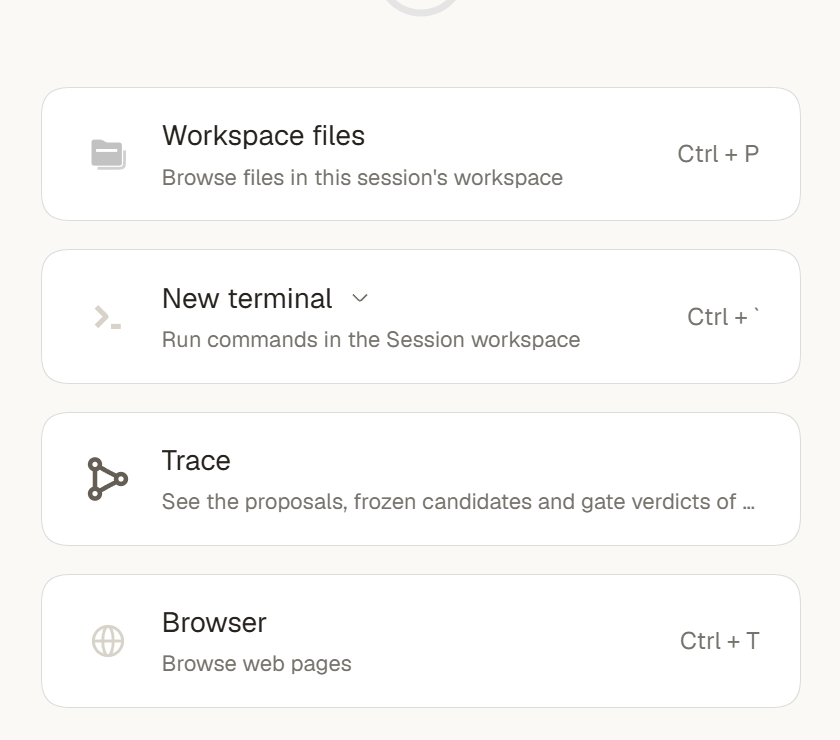
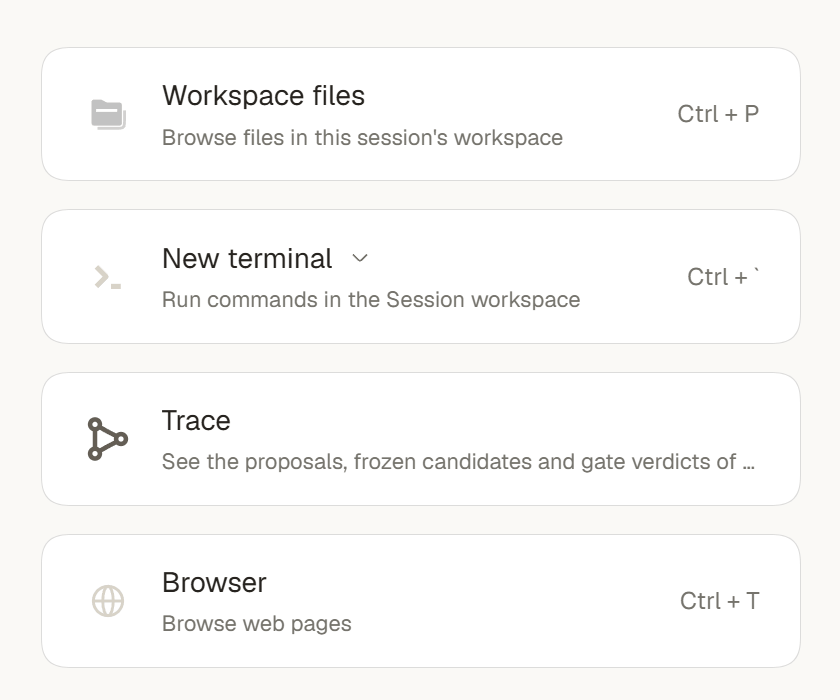
Tighten the header test and set version 0.1.0 in the changelog
An independent read found gaps in the test: outside links, event handlers,
foreignObject and SMIL animation passed, and a file name in plain text
counted as a picture. Each gap now fails, shown by planting the fault.

The README now states the gate refusals exactly: the first two tries left
off the sha256 prefix and the third sent a different hash.

diff --git a/README.md b/README.md
@@ -41,13 +41,13 @@ This repository holds the build kit and the two Arc plugins. It does not contain
 
 ## A real task
 
-We gave Arc Harness a real job on this repository: write the test that guards the header at the top of this page. It planned the work, built it, froze it and handed it to a fresh reviewer. The run took 5 minutes 31 seconds, with 7 subagents and 102 steps, on Clarke 1.0 through Radium. The file it wrote is [`test/header.test.mjs`](test/header.test.mjs), and `npm test` runs it now.
+We gave Arc Harness a real job on this repository: write the test that guards the header at the top of this page. It planned the work, built it, froze it and handed it to a fresh reviewer. The run took 5 minutes 31 seconds, with 7 subagents and 102 steps, on Clarke 1.0 through Radium. The file it wrote is [`test/header.test.mjs`](test/header.test.mjs), and `npm test` runs it now. An independent read then found gaps in it, and we added those checks by hand.
 
 ![The session of that run on the left, with its seven steps. The Trace tab on the right lists the ledger: a proposal, frozen candidates, three refusals and one acceptance.](docs/images/task-run.png)
 
-The Trace tab on the right is the ledger of that run, newest first. The gate refused first. The agent that froze the work asked for acceptance itself, and the gate answered that the reviewer must call it. Two more tries failed because the reviewers passed a wrong candidate value. The file never changed. The fourth try passed, and the chain holds all 11 entries.
+The Trace tab on the right is the ledger of that run, newest first. The gate refused first. The agent that froze the work asked for acceptance itself, and the gate answered that the reviewer must call it. That try and the next left off the `sha256:` prefix, and the third sent a different hash. The file never changed. The fourth try passed, and the chain holds all 11 entries.
 
-**Shared memory.** Each verdict went to Cammut by itself. In a new session, a question found those verdicts. The answer repeats the gate's stock wording about a later edit, and the ledger above shows what really happened.
+**Shared memory.** Each verdict went to Cammut by itself. In a new session, a question found those verdicts. The answer repeats the gate's stock wording about a later edit. That wording does not fit this run: every freeze in the ledger holds the same hash.
 
 ![A new session asks Cammut for the gate verdicts of that goal and gets back the refusals and the acceptance.](docs/images/task-memory.png)
 
@@ -59,7 +59,7 @@ The Trace tab on the right is the ledger of that run, newest first. The gate ref
 |---|---|
 | Harness of Harness gate | Runs. Everything above comes from it. |
 | Ledger and Trace tab | Runs. |
-| Cammut memory | Runs. Verdicts go in by themselves, the brief reaches each session and the agent can search notes. |
+| Cammut memory | Runs. Verdicts go in by themselves, the brief reached the session, and the agent searched notes. |
 | Permission card | Runs. |
 | Diagrams | Partly. The agent wrote a Mermaid diagram of its steps, and the app shows it as text. |
 | Hook building | Not in the app yet. |

diff --git a/CHANGELOG.md b/CHANGELOG.md
@@ -2,7 +2,7 @@
 
 All notable changes to Arc Harness are listed here. The format follows [Keep a Changelog 1.1.0](https://keepachangelog.com/en/1.1.0/). The build kit is at 0.1.0, and each plugin has its own version in its `package.json`.
 
-## [Unreleased]
+## [0.1.0] - 2026-11-05
 
 ### Added
 
@@ -24,7 +24,7 @@ All notable changes to Arc Harness are listed here. The format follows [Keep a C
 - The slogan is now "Predict the future with the flow of your thoughts". It is page text under the header, and `docs/images/social-preview.png` carries it too.
 - The session screenshot moved from the top of the README to Screens.
 - The README shows a real task: the gate refusals, the shared memory answer, the permission card, and a table of what runs in the app today.
-- `test/header.test.mjs` guards the header files. Arc Harness wrote it in that task, and `npm test` runs it.
+- `test/header.test.mjs` guards the header files. Arc Harness wrote it in that task, an independent read added more checks, and `npm test` runs it.
 - `test/desktop-journey.mjs` has a `task` mode. It never answers a permission prompt.
 - The upstream project is credited once, in the README. `NOTICE.md` keeps the licence text.
 - The repository history starts at the Arc Harness build kit. The retired Arc Science desktop app is no longer in this repository.
